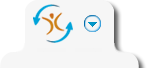
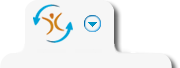
changes on Template.html, streched the module menu.

Changed region(s): [[0.1633, 0.0588, 0.7075, 0.7647], [0.7347, 0.0294, 0.8435, 0.7647], [0.898, 0.8235, 0.9796, 1.0]]

diff --git a/public/New_awesome_interface/template.html b/public/New_awesome_interface/template.html
@@ -42,8 +42,7 @@
        	      		<div id="module_menu_top"></div>
                             
                       <div id="module_menu_items" >
-                      	  <!--<div id="module_menu_connector">
-                          </div>-->
+                      	 
                        	  <ul>
                            	  <li><img src="images/icon_holder.png" width="22" height="22" alt="icon" />Module 1</li>
                               <li>Module 2</li>
